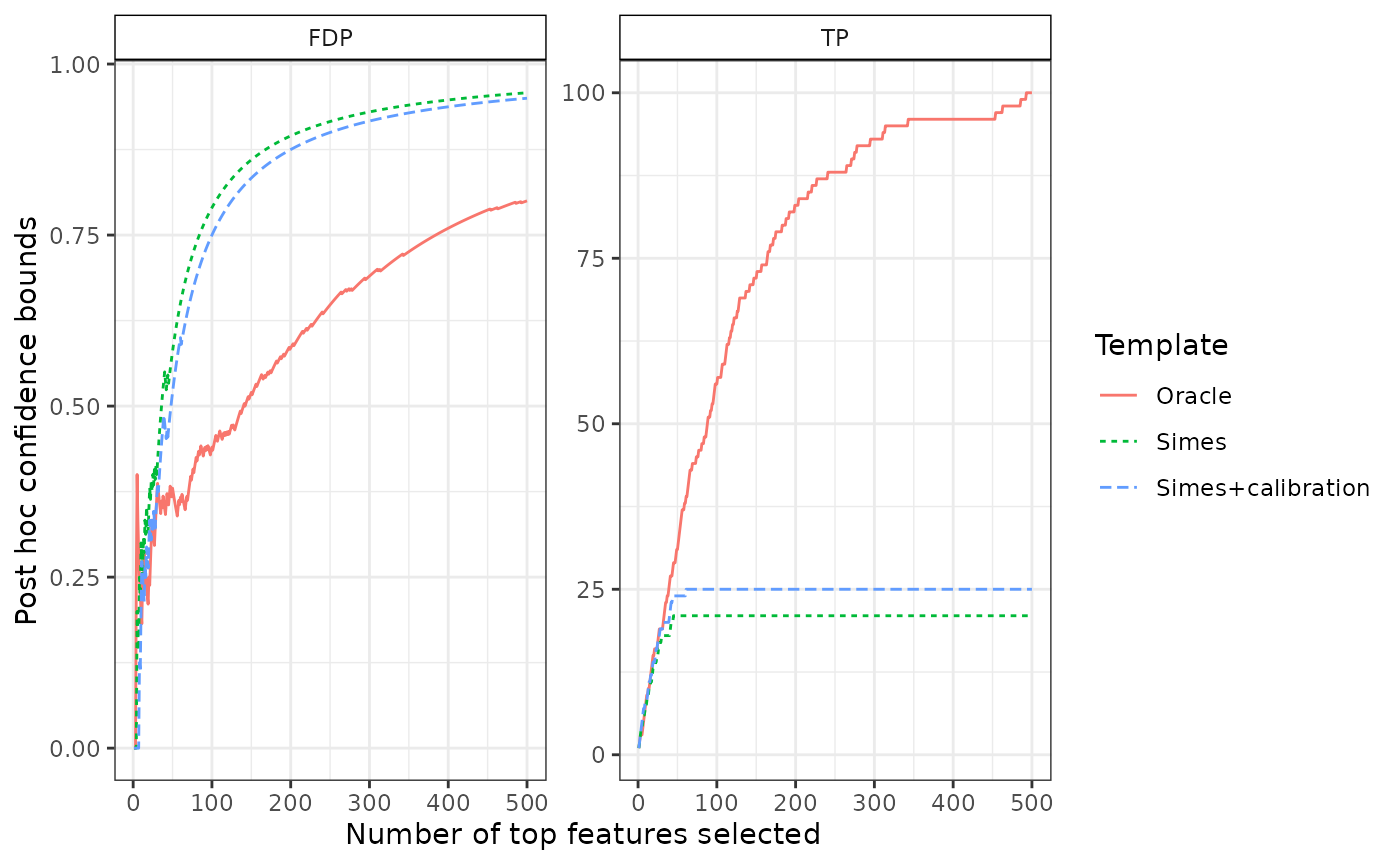
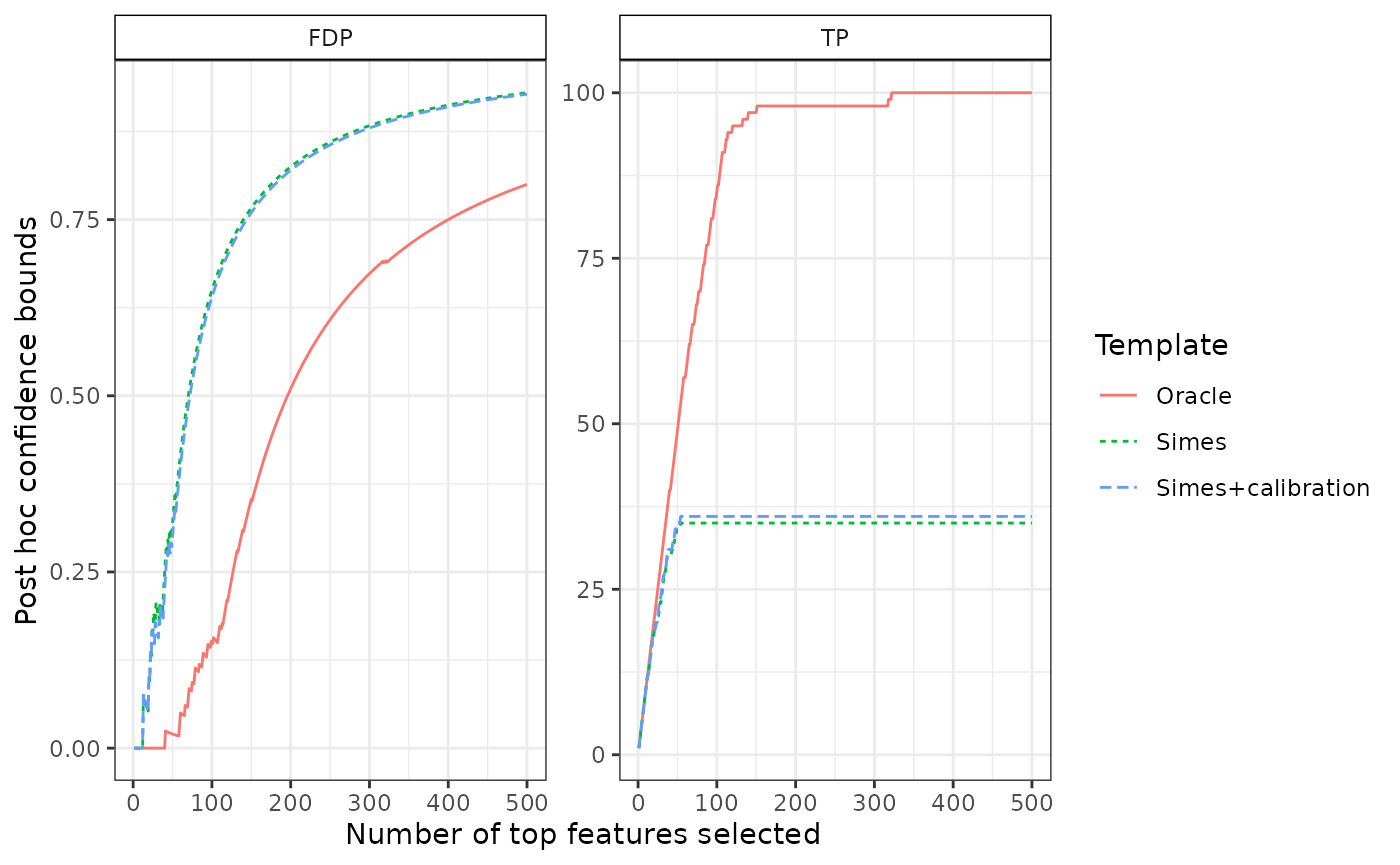
Built site for sanssouci: 0.12.7@2056c1b

diff --git a/reference/rowWelchTests.html b/reference/rowWelchTests.html
@@ -149,7 +149,7 @@ alternative approach. Biometrika, <em>38</em>, 330-336</p>
 <span class="r-in"><span><span class="va">categ</span> <span class="op">&lt;-</span> <span class="fu"><a href="https://rdrr.io/r/base/rep.html" class="external-link">rep</a></span><span class="op">(</span><span class="fu"><a href="https://rdrr.io/r/base/c.html" class="external-link">c</a></span><span class="op">(</span><span class="fl">0</span>, <span class="fl">1</span><span class="op">)</span>, times <span class="op">=</span> <span class="fu"><a href="https://rdrr.io/r/base/c.html" class="external-link">c</a></span><span class="op">(</span><span class="fl">27</span>, <span class="va">n</span> <span class="op">-</span> <span class="fl">27</span><span class="op">)</span><span class="op">)</span></span></span>
 <span class="r-in"><span><span class="fu"><a href="https://rdrr.io/r/base/system.time.html" class="external-link">system.time</a></span><span class="op">(</span><span class="va">fwt</span> <span class="op">&lt;-</span> <span class="fu">rowWelchTests</span><span class="op">(</span><span class="va">mat</span>, <span class="va">categ</span>, alternative <span class="op">=</span> <span class="st">"greater"</span><span class="op">)</span><span class="op">)</span></span></span>
 <span class="r-out co"><span class="r-pr">#&gt;</span>    user  system elapsed </span>
-<span class="r-out co"><span class="r-pr">#&gt;</span>   0.002   0.000   0.002 </span>
+<span class="r-out co"><span class="r-pr">#&gt;</span>   0.001   0.000   0.002 </span>
 <span class="r-in"><span><span class="fu"><a href="https://rdrr.io/r/utils/str.html" class="external-link">str</a></span><span class="op">(</span><span class="va">fwt</span><span class="op">)</span></span></span>
 <span class="r-out co"><span class="r-pr">#&gt;</span> List of 4</span>
 <span class="r-out co"><span class="r-pr">#&gt;</span>  $ statistic: num [1:300] 0.0104 1.6174 -0.1244 0.9773 0.9468 ...</span>
@@ -162,7 +162,7 @@ alternative approach. Biometrika, <em>38</em>, 330-336</p>
 <span class="r-in"><span>  <span class="fu"><a href="https://rdrr.io/r/stats/t.test.html" class="external-link">t.test</a></span><span class="op">(</span><span class="va">x</span><span class="op">[</span><span class="va">categ</span> <span class="op">==</span> <span class="fl">1</span><span class="op">]</span>, <span class="va">x</span><span class="op">[</span><span class="va">categ</span> <span class="op">==</span> <span class="fl">0</span><span class="op">]</span>, alternative <span class="op">=</span> <span class="st">"greater"</span><span class="op">)</span><span class="op">$</span><span class="va">p.value</span></span></span>
 <span class="r-in"><span><span class="op">}</span><span class="op">)</span><span class="op">)</span></span></span>
 <span class="r-out co"><span class="r-pr">#&gt;</span>    user  system elapsed </span>
-<span class="r-out co"><span class="r-pr">#&gt;</span>   0.072   0.000   0.072 </span>
+<span class="r-out co"><span class="r-pr">#&gt;</span>   0.042   0.000   0.042 </span>
 <span class="r-in"><span><span class="fu"><a href="https://rdrr.io/r/base/all.html" class="external-link">all</a></span><span class="op">(</span><span class="fu"><a href="https://rdrr.io/r/base/MathFun.html" class="external-link">abs</a></span><span class="op">(</span><span class="va">fwt</span><span class="op">$</span><span class="va">p.value</span> <span class="op">-</span> <span class="va">pwt</span><span class="op">)</span> <span class="op">&lt;</span> <span class="fl">1e-10</span><span class="op">)</span> <span class="co">## same results</span></span></span>
 <span class="r-out co"><span class="r-pr">#&gt;</span> [1] TRUE</span>
 <span class="r-in"><span></span></span>

diff --git a/articles/jointErrorRateCalibration_simulations.html b/articles/jointErrorRateCalibration_simulations.html
@@ -168,7 +168,7 @@
 <span><span class="co">##      (of size:   K=500)</span></span>
 <span><span class="co">## </span></span>
 <span><span class="co">## Output:</span></span>
-<span><span class="co">##  Calibration parameter:  lambda=0.2447954</span></span></code></pre>
+<span><span class="co">##  Calibration parameter:  lambda=0.3165772</span></span></code></pre>
 <p>The output of the calibration is the following <code>SansSouci</code> object. In particular:</p>
 <ul>
 <li>
@@ -191,7 +191,7 @@
 <div class="sourceCode" id="cb7"><pre class="downlit sourceCode r">
 <code class="sourceCode R"><span><span class="va">cal</span><span class="op">$</span><span class="va">output</span><span class="op">$</span><span class="va">lambda</span></span></code></pre></div>
 <pre><code><span><span class="co">##       20% </span></span>
-<span><span class="co">## 0.2447954</span></span></code></pre>
+<span><span class="co">## 0.3165772</span></span></code></pre>
 <div class="sourceCode" id="cb9"><pre class="downlit sourceCode r">
 <code class="sourceCode R"><span><span class="va">cal</span><span class="op">$</span><span class="va">output</span><span class="op">$</span><span class="va">lambda</span> <span class="op">&gt;</span> <span class="va">alpha</span></span></code></pre></div>
 <pre><code><span><span class="co">##  20% </span></span>
@@ -209,8 +209,8 @@
 <span><span class="co">## 2 2 Simes   TP     2</span></span>
 <span><span class="co">## 3 3 Simes   TP     3</span></span>
 <span><span class="co">## 4 4 Simes   TP     4</span></span>
-<span><span class="co">## 5 5 Simes   TP     4</span></span>
-<span><span class="co">## 6 6 Simes   TP     4</span></span></code></pre>
+<span><span class="co">## 5 5 Simes   TP     5</span></span>
+<span><span class="co">## 6 6 Simes   TP     6</span></span></code></pre>
 <p>We compare it to the true number of false positives among the most significant items, and to the Simes bound without calibration</p>
 <div class="sourceCode" id="cb13"><pre class="downlit sourceCode r">
 <code class="sourceCode R"><span><span class="va">cal0</span> <span class="op">&lt;-</span> <span class="fu"><a href="https://generics.r-lib.org/reference/fit.html" class="external-link">fit</a></span><span class="op">(</span><span class="va">obj</span>, alpha <span class="op">=</span> <span class="va">alpha</span>, B <span class="op">=</span> <span class="fl">0</span>, family <span class="op">=</span> <span class="st">"Simes"</span><span class="op">)</span></span>
@@ -256,7 +256,7 @@
 <span><span class="co">##      (of size:   K=500)</span></span>
 <span><span class="co">## </span></span>
 <span><span class="co">## Output:</span></span>
-<span><span class="co">##  Calibration parameter:  lambda=0.2315166</span></span></code></pre>
+<span><span class="co">##  Calibration parameter:  lambda=0.2106539</span></span></code></pre>
 <p>Again we expect <span class="math inline">\(\lambda &gt; \alpha\)</span>.</p>
 <div class="section level3">
 <h3 id="confidence-curves">Confidence curves<a class="anchor" aria-label="anchor" href="#confidence-curves"></a>

diff --git a/reference/SansSouci-methods.html b/reference/SansSouci-methods.html
@@ -170,7 +170,7 @@ thresholds: get thresholds"><!-- mathjax --><script src="https://cdnjs.cloudflar
 <span class="r-out co"><span class="r-pr">#&gt;</span> 		(of size:	K=9038)</span>
 <span class="r-out co"><span class="r-pr">#&gt;</span> </span>
 <span class="r-out co"><span class="r-pr">#&gt;</span> Output:</span>
-<span class="r-out co"><span class="r-pr">#&gt;</span> 	Calibration parameter:	lambda=0.1810806</span>
+<span class="r-out co"><span class="r-pr">#&gt;</span> 	Calibration parameter:	lambda=0.204961</span>
 <span class="r-in"><span><span class="fu"><a href="https://rdrr.io/r/utils/str.html" class="external-link">str</a></span><span class="op">(</span><span class="fu"><a href="all-generics.html">pValues</a></span><span class="op">(</span><span class="va">res</span><span class="op">)</span><span class="op">)</span></span></span>
 <span class="r-out co"><span class="r-pr">#&gt;</span>  Named num [1:9038] 0.9647 0.5203 0.9516 0.8438 0.0045 ...</span>
 <span class="r-out co"><span class="r-pr">#&gt;</span>  - attr(*, "names")= chr [1:9038] "ENSG00000000003" "ENSG00000000419" "ENSG00000000457" "ENSG00000000460" ...</span>
@@ -178,7 +178,7 @@ thresholds: get thresholds"><!-- mathjax --><script src="https://cdnjs.cloudflar
 <span class="r-out co"><span class="r-pr">#&gt;</span>  Named num [1:9038] -0.0044 0.09394 -0.00426 -0.00886 0.27775 ...</span>
 <span class="r-out co"><span class="r-pr">#&gt;</span>  - attr(*, "names")= chr [1:9038] "ENSG00000000003" "ENSG00000000419" "ENSG00000000457" "ENSG00000000460" ...</span>
 <span class="r-in"><span><span class="fu"><a href="https://rdrr.io/r/utils/str.html" class="external-link">str</a></span><span class="op">(</span><span class="fu"><a href="all-generics.html">thresholds</a></span><span class="op">(</span><span class="va">res</span><span class="op">)</span><span class="op">)</span></span></span>
-<span class="r-out co"><span class="r-pr">#&gt;</span>  num [1:9038] 2.00e-05 4.01e-05 6.01e-05 8.01e-05 1.00e-04 ...</span>
+<span class="r-out co"><span class="r-pr">#&gt;</span>  num [1:9038] 2.27e-05 4.54e-05 6.80e-05 9.07e-05 1.13e-04 ...</span>
 <span class="r-in"><span><span class="fu"><a href="volcanoPlot.html">volcanoPlot</a></span><span class="op">(</span><span class="va">res</span>, q <span class="op">=</span> <span class="fl">0.05</span>, r <span class="op">=</span> <span class="fl">0.5</span><span class="op">)</span></span></span>
 <span class="r-plt img"><img src="SansSouci-methods-1.png" alt="" width="700" height="433"></span>
 <span class="r-in"><span></span></span>

diff --git a/reference/rowPearsonCorrelationTests.html b/reference/rowPearsonCorrelationTests.html
@@ -142,7 +142,7 @@ Must be one of "two.sided" (default), "greater" or "less". As in
 <span class="r-in"><span><span class="va">categ</span> <span class="op">&lt;-</span> <span class="fu"><a href="https://rdrr.io/r/stats/Normal.html" class="external-link">rnorm</a></span><span class="op">(</span><span class="va">n</span>, mean <span class="op">=</span> <span class="fl">10</span><span class="op">)</span></span></span>
 <span class="r-in"><span><span class="fu"><a href="https://rdrr.io/r/base/system.time.html" class="external-link">system.time</a></span><span class="op">(</span><span class="va">fwt</span> <span class="op">&lt;-</span> <span class="fu">rowPearsonCorrelationTests</span><span class="op">(</span><span class="va">mat</span>, <span class="va">categ</span>, alternative <span class="op">=</span> <span class="st">"greater"</span><span class="op">)</span><span class="op">)</span></span></span>
 <span class="r-out co"><span class="r-pr">#&gt;</span>    user  system elapsed </span>
-<span class="r-out co"><span class="r-pr">#&gt;</span>   0.005   0.000   0.005 </span>
+<span class="r-out co"><span class="r-pr">#&gt;</span>   0.004   0.000   0.004 </span>
 <span class="r-in"><span><span class="fu"><a href="https://rdrr.io/r/utils/str.html" class="external-link">str</a></span><span class="op">(</span><span class="va">fwt</span><span class="op">)</span></span></span>
 <span class="r-out co"><span class="r-pr">#&gt;</span> List of 3</span>
 <span class="r-out co"><span class="r-pr">#&gt;</span>  $ p.value  : num [1:300] 0.746 0.11 0.813 0.784 0.162 ...</span>

diff --git a/reference/SansSouciSim.html b/reference/SansSouciSim.html
@@ -113,8 +113,8 @@ equi-correlated model</p>
 <span class="r-in"><span><span class="co"># upper bound on number of signals if the entire data set</span></span></span>
 <span class="r-in"><span><span class="co"># (and corresponding lower bound on FDP)</span></span></span>
 <span class="r-in"><span><span class="fu"><a href="https://rdrr.io/r/stats/predict.html" class="external-link">predict</a></span><span class="op">(</span><span class="va">res</span><span class="op">)</span></span></span>
-<span class="r-out co"><span class="r-pr">#&gt;</span>        TP       FDP </span>
-<span class="r-out co"><span class="r-pr">#&gt;</span> 4.0000000 0.9926335 </span>
+<span class="r-out co"><span class="r-pr">#&gt;</span>         TP        FDP </span>
+<span class="r-out co"><span class="r-pr">#&gt;</span> 36.0000000  0.9337017 </span>
 <span class="r-in"><span></span></span>
 <span class="r-in"><span><span class="co"># confidence curve</span></span></span>
 <span class="r-in"><span><span class="fu"><a href="https://rdrr.io/r/graphics/plot.default.html" class="external-link">plot</a></span><span class="op">(</span><span class="va">res</span><span class="op">)</span></span></span>

diff --git a/articles/Simes_equi-correlation.html b/articles/Simes_equi-correlation.html
@@ -175,19 +175,19 @@
 <tbody>
 <tr class="odd">
 <td align="left">Achieved level/target level</td>
-<td align="right">1.06</td>
-<td align="right">0.87</td>
-<td align="right">0.77</td>
-<td align="right">0.56</td>
-<td align="right">0.45</td>
+<td align="right">1.03</td>
+<td align="right">0.78</td>
+<td align="right">0.62</td>
+<td align="right">0.42</td>
+<td align="right">0.32</td>
 </tr>
 <tr class="even">
 <td align="left">Standard error</td>
 <td align="right">0.06</td>
 <td align="right">0.06</td>
-<td align="right">0.06</td>
 <td align="right">0.05</td>
-<td align="right">0.05</td>
+<td align="right">0.04</td>
+<td align="right">0.04</td>
 </tr>
 </tbody>
 </table>
